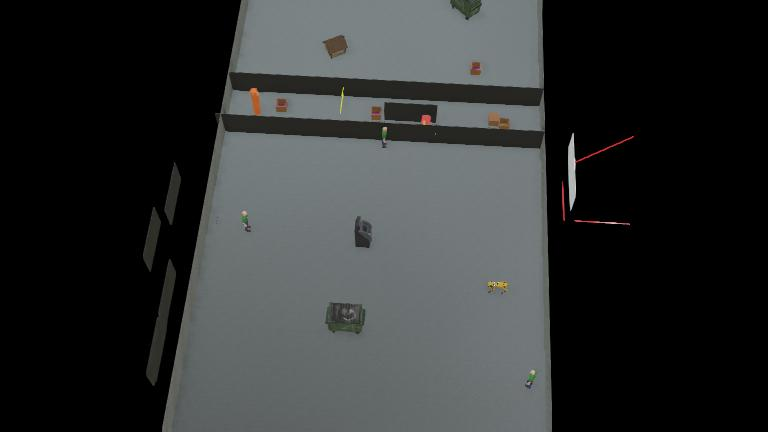
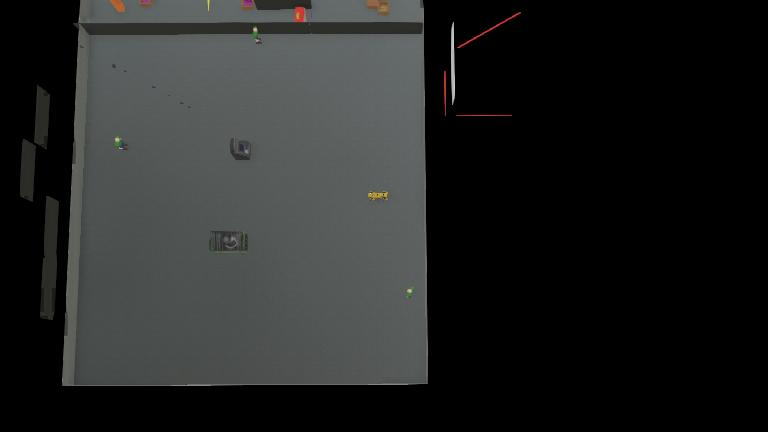
added more rooms

diff --git a/launch/spot_launch.py b/launch/spot_launch.py
@@ -101,7 +101,7 @@ def generate_launch_description():
         
         #world=PathJoinSubstitution([package_dir, "worlds", "spot_test_big_room_one_static_obstacale.wbt"])
         #world=PathJoinSubstitution([package_dir, "worlds", "spot_test_big_room_one_dynamic_obstacale.wbt"])
-        world=PathJoinSubstitution([package_dir, "worlds", "spot_test_big_room_multiple_dynamic_obstacale_5 .wbt"])
+        world=PathJoinSubstitution([package_dir, "worlds", "spot_test_big_room_multiple_dynamic_obstacale_7 .wbt"])
     )
     ros2_supervisor = Ros2SupervisorLauncher()
 
